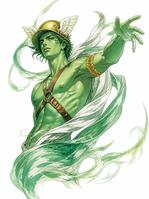
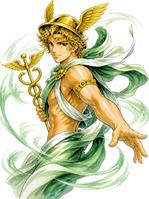
替身改為希臘羅馬神祇，並讓替身的臉避開使用者的頭
六位神祇：瑪爾斯、雅典娜、阿提米絲、赫密士、維納斯、丘比特（男女各半）。
人像遮罩多算一段頭部左右範圍，替身站到頭的旁邊；兩邊都放不下就縮小。

Claude-Session: https://claude.ai/code/session_01FywWfzukWDvxouKVzAMEPQ

diff --git a/stand-filter/app.js b/stand-filter/app.js
@@ -239,7 +239,7 @@ function stopCamera() {
 }
 function useSource(src, mirror) {
   state.src = src; state.mirror = mirror; state.box = null; state.mask = null;
-  state.summonAt = performance.now();
+  state.summonAt = performance.now(); state.sx = null;
   const w = src.videoWidth || src.naturalWidth, h = src.videoHeight || src.naturalHeight;
   const k = Math.min(1, 1080 / Math.max(w, h));
   const W = Math.round(w * k), H = Math.round(h * k);
@@ -269,7 +269,15 @@ function segment(now) {
       }
       maskCtx.putImageData(img, 0, 0);
       state.mask = maskC;
-      if (n > f.length * .01) smoothBox({ x0: minX / mw, y0: minY / mh, x1: (maxX + 1) / mw, y1: (maxY + 1) / mh });
+      if (n > f.length * .01) {
+        // 頭部範圍：人像最上面那一段（約身高的兩成）的左右邊界
+        const yEnd = Math.min(maxY, minY + Math.max(4, (maxY - minY) * .2));
+        let hx0 = mw, hx1 = -1;
+        for (let y = minY; y <= yEnd; y++) for (let x = minX; x <= maxX; x++) {
+          if (f[y * mw + x] > .5) { if (x < hx0) hx0 = x; if (x > hx1) hx1 = x; }
+        }
+        smoothBox({ x0: minX / mw, y0: minY / mh, x1: (maxX + 1) / mw, y1: (maxY + 1) / mh, hx0: hx0 / mw, hx1: (hx1 + 1) / mw });
+      }
     });
   } catch (e) { console.warn(e); }
 }
@@ -282,7 +290,7 @@ function fallbackMask() {
   const r = g.createRadialGradient(64, 70, 10, 64, 70, 60);
   r.addColorStop(0, '#fff'); r.addColorStop(.75, 'rgba(255,255,255,.9)'); r.addColorStop(1, 'rgba(255,255,255,0)');
   g.fillStyle = r; g.beginPath(); g.ellipse(64, 74, 40, 56, 0, 0, 7); g.fill();
-  state.mask = maskC; state.box = { x0: .19, y0: .14, x1: .81, y1: 1 };
+  state.mask = maskC; state.box = { x0: .19, y0: .14, x1: .81, y1: 1, hx0: .38, hx1: .62 };
 }
 
 let halftone = null;
@@ -290,6 +298,22 @@ function halftonePattern() {
   const c = mk(10, 10), g = c.getContext('2d');
   g.fillStyle = '#000'; g.beginPath(); g.arc(5, 5, 2.1, 0, 7); g.fill();
   return ctx.createPattern(c, 'repeat');
+}
+
+// 替身的臉要避開本人的頭：站到頭的旁邊；兩邊都放不下就縮小再試
+function placeStand(box, W, H, bh, ratio) {
+  const hx0 = box.hx0 * W, hx1 = box.hx1 * W, headW = hx1 - hx0;
+  let sh = Math.min(H * .82, Math.max(bh * .9, H * .5));
+  for (let i = 0; i < 6; i++) {
+    const sw = sh * ratio, gap = sw * .2 + headW * .08;   // 替身的臉約占圖寬的中間四成
+    for (const side of [state.side, -state.side]) {
+      const x = side > 0 ? hx1 + gap : hx0 - gap;
+      if (x - sw * .2 >= 0 && x + sw * .2 <= W) return { x, side, sh, sw };
+    }
+    sh *= .85;
+  }
+  const sw = sh * ratio, side = state.side;
+  return { x: side > 0 ? W - sw * .2 : sw * .2, side, sh, sw };
 }
 
 function render(now) {
@@ -305,7 +329,7 @@ function render(now) {
 
   segment(now);
   if (!state.mask) { if (!state.segmenter) fallbackMask(); else { ctx.drawImage(srcC, 0, 0); return; } }
-  const box = state.box || { x0: .25, y0: .15, x1: .75, y1: 1 };
+  const box = state.box || { x0: .25, y0: .15, x1: .75, y1: 1, hx0: .4, hx1: .6 };
 
   // 1. 把人切出來
   const pc = personC.getContext('2d');
@@ -341,15 +365,17 @@ function render(now) {
   const enter = Math.min(1, (now - state.summonAt) / 900), ease = 1 - Math.pow(1 - enter, 3);
   let sx = cx, sy = headY;
   if (a) {
-    const sh = Math.min(H * .82, Math.max(bh * .9, H * .5)), sw = sh * a.width / a.height;
-    // 站在斜後方，但至少留六成身體在畫面內
-    sx = Math.min(W - sw * .3, Math.max(sw * .3, cx + state.side * bw * .45));
-    sy = headY - sh * .16 + Math.sin(t * 1.6) * u * .8 + (1 - ease) * sh * .25;
+    const p = placeStand(box, W, H, bh, a.width / a.height);
+    const sh = p.sh, sw = p.sw;
+    state.sx = state.sx == null ? p.x : state.sx + (p.x - state.sx) * .25;
+    state.useSide = p.side;
+    sx = state.sx;
+    sy = Math.max(u * 2, headY - sh * .08) + Math.sin(t * 1.6) * u * .8 + (1 - ease) * sh * .25;
     speedLines(sx, sy + sh * .25, W, H, t, s);
     ctx.save();
     // 殘影
     ctx.globalAlpha = .22 * ease;
-    ctx.drawImage(a, sx - sw * .52 - state.side * u * 2, sy - u, sw * 1.04, sh * 1.04);
+    ctx.drawImage(a, sx - sw * .52 - p.side * u * 2, sy - u, sw * 1.04, sh * 1.04);
     // 本體＋光暈
     ctx.globalAlpha = .95 * ease;
     ctx.shadowColor = s.glow; ctx.shadowBlur = 6 * u;
@@ -394,11 +420,11 @@ function sfx(W, H, t, s) {
   ctx.save();
   ctx.lineJoin = 'round'; ctx.textAlign = 'center'; ctx.textBaseline = 'middle';
   SFX_SLOTS.forEach(([x, y, rot, k], i) => {
-    const px = state.side > 0 ? x : 1 - x;
+    const side = state.useSide ?? state.side, px = side > 0 ? x : 1 - x;
     const j = Math.sin(t * 22 + i * 1.7) * base * .025;
     const size = base * k * (1 + Math.sin(t * 3 + i) * .04);
     ctx.save();
-    ctx.translate(px * W + j, y * H - j); ctx.rotate((state.side > 0 ? rot : -rot) * Math.PI / 180);
+    ctx.translate(px * W + j, y * H - j); ctx.rotate((side > 0 ? rot : -rot) * Math.PI / 180);
     ctx.font = `${size}px "Dela Gothic One", "Hiragino Sans", sans-serif`;
     ctx.lineWidth = size * .2; ctx.strokeStyle = '#120a1c'; ctx.strokeText(s.sfx, 0, 0);
     ctx.lineWidth = size * .07; ctx.strokeStyle = '#fff'; ctx.strokeText(s.sfx, 0, 0);

diff --git a/stand-filter/quiz.js b/stand-filter/quiz.js
@@ -1,42 +1,42 @@
 // 替身偵測器：五題選擇題 → 人格標籤 → 專屬替身
 // 娛樂性的自我探索，不是心理診斷。
 
-// 每隻替身的圖放在 stands/<id>.png 或 stands/<id>.jpg（白底或透明底都可以）
+// 替身以希臘羅馬神話的神祇為原型（神話本身沒有版權）。每隻替身的圖放在 stands/<id>.png 或 stands/<id>.jpg（白底或透明底都可以）
 export const STANDS = {
-  courage: { tag: '勇氣', name: 'ROAR OF BABYLON', zh: '巴比倫之吼', sfx: 'ド',
+  courage: { tag: '勇氣', name: 'MARS', zh: '戰神瑪爾斯', sfx: 'ド',
     tint: '#ff2e55', glow: '#ff9a6b', text: '#ff3d6e',
     grade: { pow: 'A', spd: 'A', rng: 'C', dur: 'B', pre: 'C', gro: 'A' },
-    ability: '一聲怒吼，能讓本體和身邊的人一起忘記恐懼。出拳時背後會浮現金色的獅鬃。',
+    ability: '羅馬的戰神。握緊拳頭的瞬間，本體和身邊的人都會一起忘記恐懼。',
     note: '阿德勒說，勇氣不是不害怕，而是怕了還是往前一步。',
     try: '這週做一件你有點怕、但其實做得到的小事。' },
-  wisdom: { tag: '智慧', name: 'ATHENIAN OWL', zh: '雅典之梟', sfx: 'ゴ',
+  wisdom: { tag: '智慧', name: 'ATHENA', zh: '智慧女神雅典娜', sfx: 'ゴ',
     tint: '#2a6bff', glow: '#7fe8ff', text: '#4fc3ff',
     grade: { pow: 'C', spd: 'B', rng: 'A', dur: 'B', pre: 'A', gro: 'B' },
-    ability: '手指輕點太陽穴，就能看穿事物背後的規則，一眼找出問題卡在哪裡。',
+    ability: '肩上的貓頭鷹能看穿事物背後的規則。女神一點太陽穴，問題卡在哪裡就一清二楚。',
     note: '你最容易在「終於弄懂了」的那一刻進入心流。',
     try: '挑一個好奇很久的問題，花 30 分鐘把它查到底。' },
-  guard: { tag: '守護', name: 'HOLY BASTION', zh: '聖騎堡壘', sfx: 'ゴ',
+  guard: { tag: '守護', name: 'ARTEMIS', zh: '月之女神阿提米絲', sfx: 'ゴ',
     tint: '#ffc23d', glow: '#fff1b8', text: '#ffd23f',
     grade: { pow: 'B', spd: 'C', rng: 'C', dur: 'A', pre: 'B', gro: 'B' },
-    ability: '交叉雙臂就能展開聖光之盾，擋下衝向重要之人的一切。',
+    ability: '孩子與弱小者的守護神。月光之弓射出的箭，會擋在每個你想保護的人前面。',
     note: '你的力量來自「為了別人」。阿德勒稱這是社會情懷，是最健康的力量來源。',
     try: '守護別人之前，也記得問問自己：今天累不累？' },
-  freedom: { tag: '自由', name: 'MERCURY GALE', zh: '信使之風', sfx: 'ゴ',
+  freedom: { tag: '自由', name: 'HERMES', zh: '旅神赫密士', sfx: 'ゴ',
     tint: '#12d688', glow: '#c6ffe4', text: '#2bd97c',
     grade: { pow: 'C', spd: 'A', rng: 'A', dur: 'C', pre: 'B', gro: 'A' },
-    ability: '能化作一陣風，帶著本體去任何想去的地方，誰都抓不住。',
+    ability: '腳踏羽翼的眾神信使。能化作一陣風，帶著本體去任何想去的地方，誰都抓不住。',
     note: '你要能自己決定怎麼做，才會全力以赴。自主，是你的心流開關。',
     try: '這週挑一件事，完全照你自己的方式完成。' },
-  create: { tag: '創造', name: 'VENETIAN MUSE', zh: '威尼斯繆思', sfx: 'ゴ',
+  create: { tag: '創造', name: 'VENUS', zh: '美神維納斯', sfx: 'ゴ',
     tint: '#c03dff', glow: '#ffb3f0', text: '#ff4fd8',
     grade: { pow: 'B', spd: 'B', rng: 'B', dur: 'C', pre: 'A', gro: 'A' },
-    ability: '手中灑出的花瓣與金箔落在哪裡，哪裡就會長出新的東西。',
+    ability: '從海中誕生的美之女神。手中灑出的玫瑰花瓣落在哪裡，哪裡就會開出新的美好。',
     note: '動手做東西做到忘了時間，就是你的心流。',
     try: '每天留 15 分鐘，做一件沒人要求、只為好玩的作品。' },
-  bond: { tag: '羈絆', name: 'SUN OF UR', zh: '烏爾之陽', sfx: 'ド',
+  bond: { tag: '羈絆', name: 'CUPID', zh: '愛神丘比特', sfx: 'ド',
     tint: '#ff7a2e', glow: '#ffd9b0', text: '#ff9a4d',
     grade: { pow: 'C', spd: 'C', rng: 'A', dur: 'A', pre: 'B', gro: 'A' },
-    ability: '指尖的金色絲線能把人和人的心連起來。連起來的人越多，它就越強。',
+    ability: '金色的愛心之箭能把人和人的心連起來。連起來的人越多，它就越強。',
     note: '理解別人、也被別人理解，是你最大的能量。馬斯洛把它叫作歸屬需求。',
     try: '主動聯絡一個好久沒聊的朋友。' },
 };

diff --git a/stand-filter/sw.js b/stand-filter/sw.js
@@ -1,5 +1,5 @@
 // 第一次開啟後把程式與模型存在手機裡，之後打開更快、沒網路也能用
-const CACHE = 'stand-cam-v4';
+const CACHE = 'stand-cam-v5';
 const SHELL = ['./', 'index.html', 'app.js', 'quiz.js', 'manifest.webmanifest', 'icon-192.png', 'apple-touch-icon.png',
   'lib/vision_bundle.mjs',
   ...['courage', 'wisdom', 'guard', 'freedom', 'create', 'bond'].map((id) => `stands/${id}.jpg`), 'models/selfie_segmenter.tflite'];

diff --git a/stand-filter/README.md b/stand-filter/README.md
@@ -13,16 +13,17 @@
 
 | 檔名 | 標籤 | 替身 | Canva 原圖 |
 |---|---|---|---|
-| courage | 勇氣 | 《ROAR OF BABYLON》巴比倫之吼 | https://www.canva.com/M/MAHXRz7tPjQ |
-| wisdom | 智慧 | 《ATHENIAN OWL》雅典之梟 | https://www.canva.com/M/MAHXR1XDyp4 |
-| guard | 守護 | 《HOLY BASTION》聖騎堡壘 | https://www.canva.com/M/MAHXRyl9hO8 |
-| freedom | 自由 | 《MERCURY GALE》信使之風 | https://www.canva.com/M/MAHXRwbbLrA |
-| create | 創造 | 《VENETIAN MUSE》威尼斯繆思 | https://www.canva.com/M/MAHXR0wrinY |
-| bond | 羈絆 | 《SUN OF UR》烏爾之陽 | https://www.canva.com/M/MAHXR5idbyA |
+| courage | 勇氣 | 《MARS》戰神瑪爾斯 | https://www.canva.com/M/MAHXSfz7Aww |
+| wisdom | 智慧 | 《ATHENA》智慧女神雅典娜 | https://www.canva.com/M/MAHXSXBww1o |
+| guard | 守護 | 《ARTEMIS》月之女神阿提米絲 | https://www.canva.com/M/MAHXSVAAkGg |
+| freedom | 自由 | 《HERMES》旅神赫密士 | https://www.canva.com/M/MAHXSR0DA6k |
+| create | 創造 | 《VENUS》美神維納斯 | https://www.canva.com/M/MAHXSTTHhsA |
+| bond | 羈絆 | 《CUPID》愛神丘比特 | https://www.canva.com/M/MAHXSVbv2Wk |
 
 `.png` 或 `.jpg` 都可以（有 `.png` 會優先用）。白底的圖會自動去背，透明底也可以。
 目前放的是縮圖（約 150×200），要換成高解析的原圖才會清楚：用相同檔名覆蓋即可。
-替身都是原創設計，沒有使用任何原作角色。
+替身以希臘羅馬神話的神祇為原型（神話本身沒有版權），造型是重新繪製的原創圖，沒有使用任何漫畫原作角色。
+相機會偵測使用者的頭部位置，讓替身的臉站在頭的旁邊，不會被擋住。
 
 - 人像分割用 Google MediaPipe 的 selfie segmenter，**在手機上計算**，照片不會上傳到任何伺服器。
 - 程式庫與模型都放在 `lib/`、`models/`，不依賴外部 CDN。
